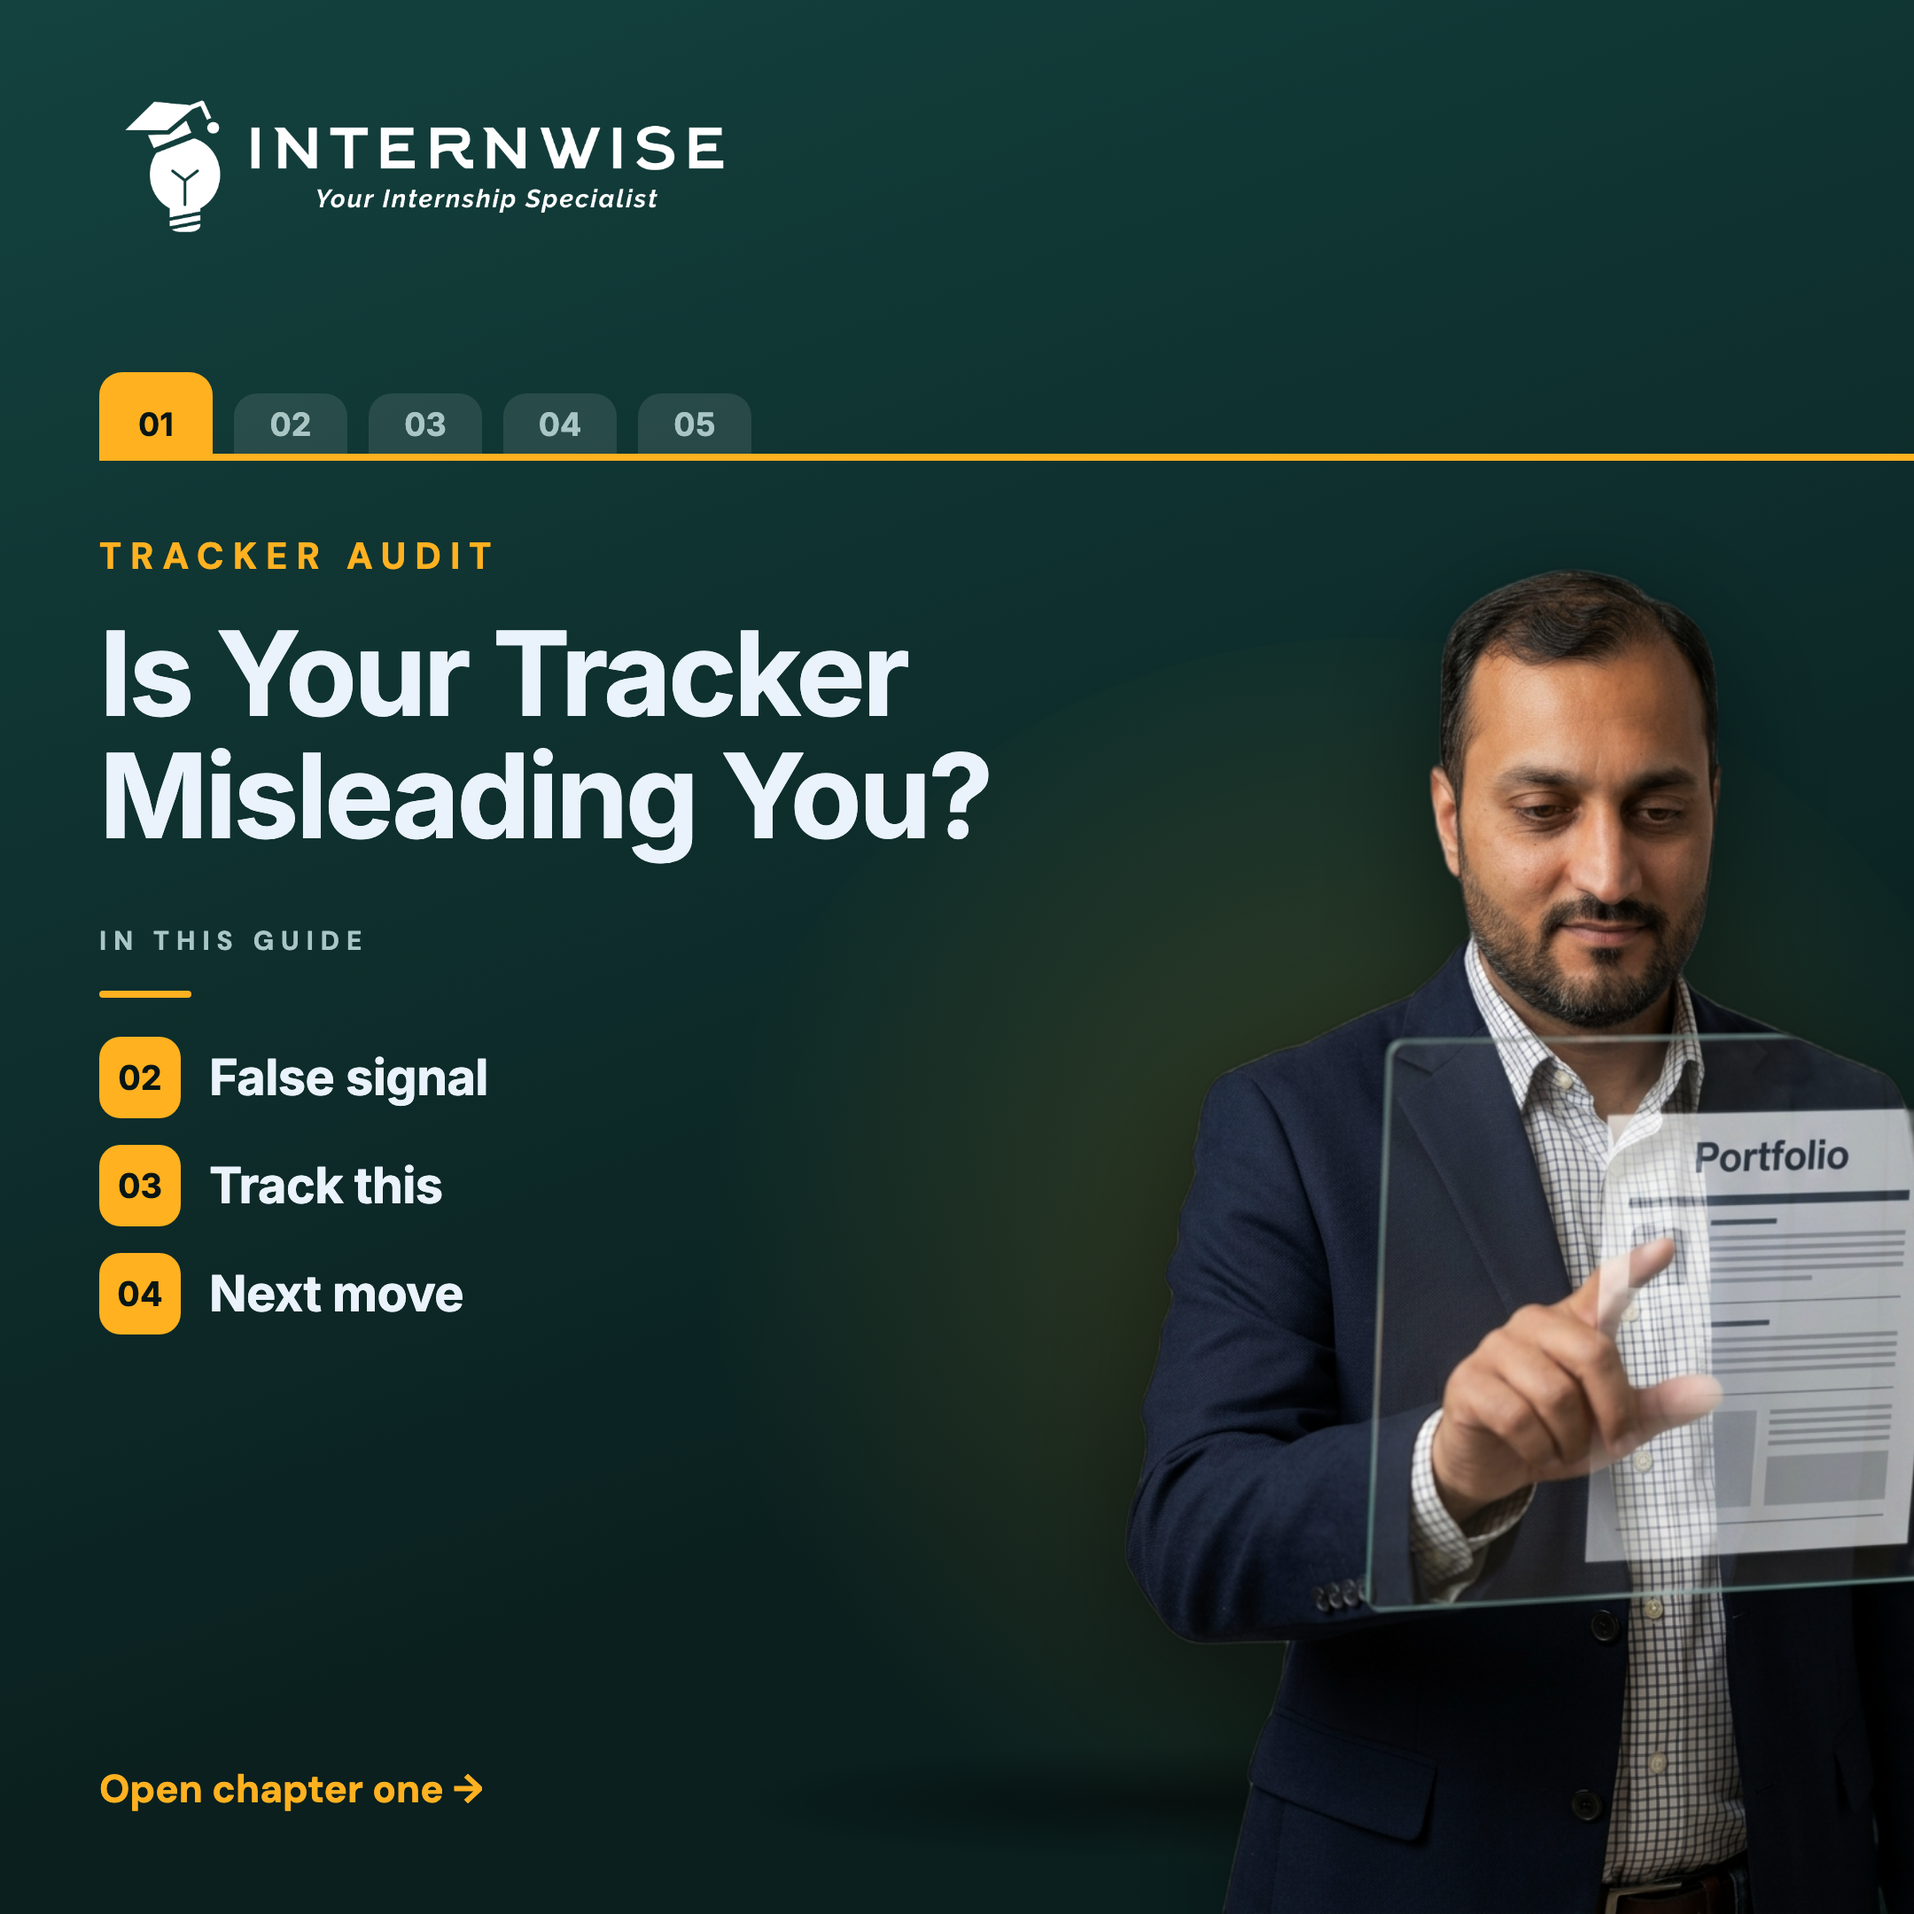
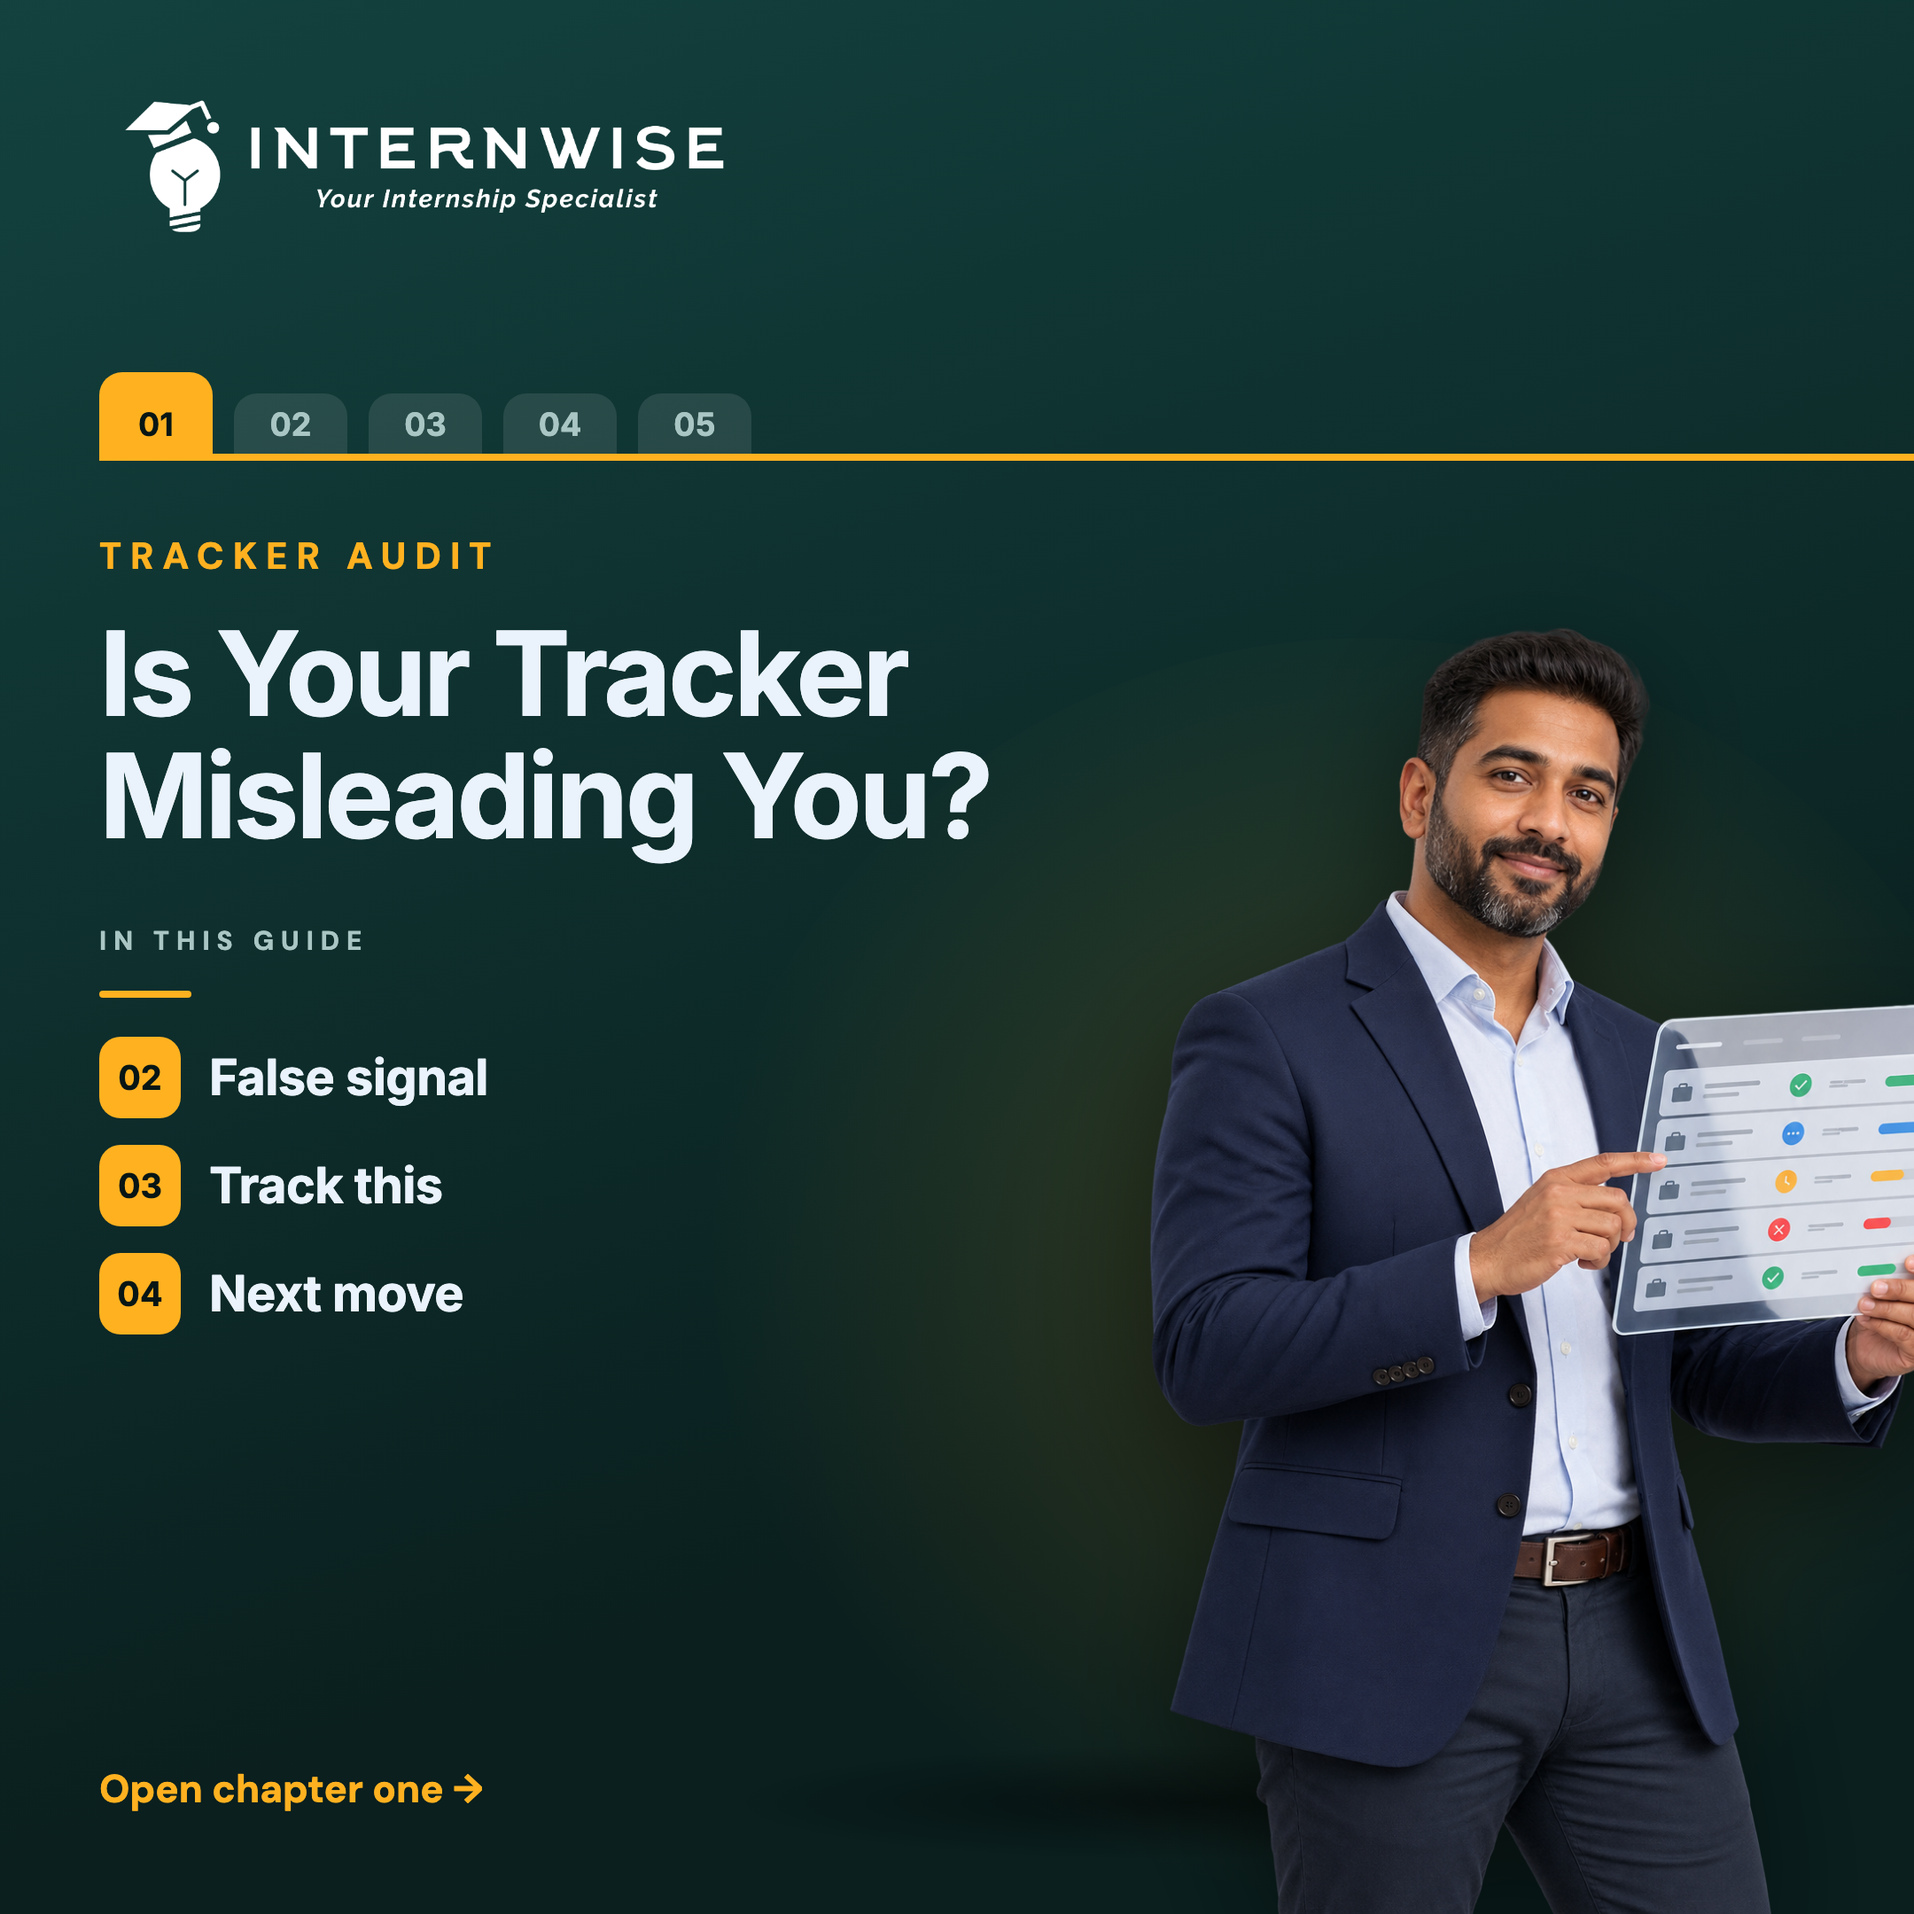
Use tracker-specific Nuno asset

Changed region(s): [[0.5894, 0.2792, 1.0, 1.0]]

diff --git a/social-media/tools/lane_education.py b/social-media/tools/lane_education.py
@@ -93,6 +93,7 @@ TOPIC_POSES = {
     "networking": ["nuno_authority_4", "nuno_authority_1", "nuno_authority_2"],
     "offer":      ["nuno_offers_cover"],
     "tech":       ["nuno_tablet_cover"],
+    "tracker":    ["nuno_tracker_dashboard"],
 }
 # Substring found in eyebrow/headline/slide text -> topic key above.
 TOPIC_KEYWORDS = [
@@ -104,8 +105,8 @@ TOPIC_KEYWORDS = [
     ("plan", "plan"), ("first day", "plan"),
     ("mistake", "mistake"), ("avoid", "mistake"), ("reject", "mistake"), ("wrong", "mistake"),
     ("strategy", "think"), ("research", "think"), ("hidden", "think"), ("think", "think"),
+    ("tracker", "tracker"), ("tracking", "tracker"), ("track", "tracker"),
     ("skill", "skills"), ("portfolio", "tech"), ("project", "skills"), ("experience", "skills"),
-    ("tracker", "tech"), ("tracking", "tech"), ("track", "tech"),
     ("linkedin", "linkedin"), ("network", "networking"), ("referral", "networking"),
     ("offer", "offer"), ("salary", "offer"), ("negotiat", "offer"),
     # Career / programme topics -> confident, professional founder (best-fit until a
